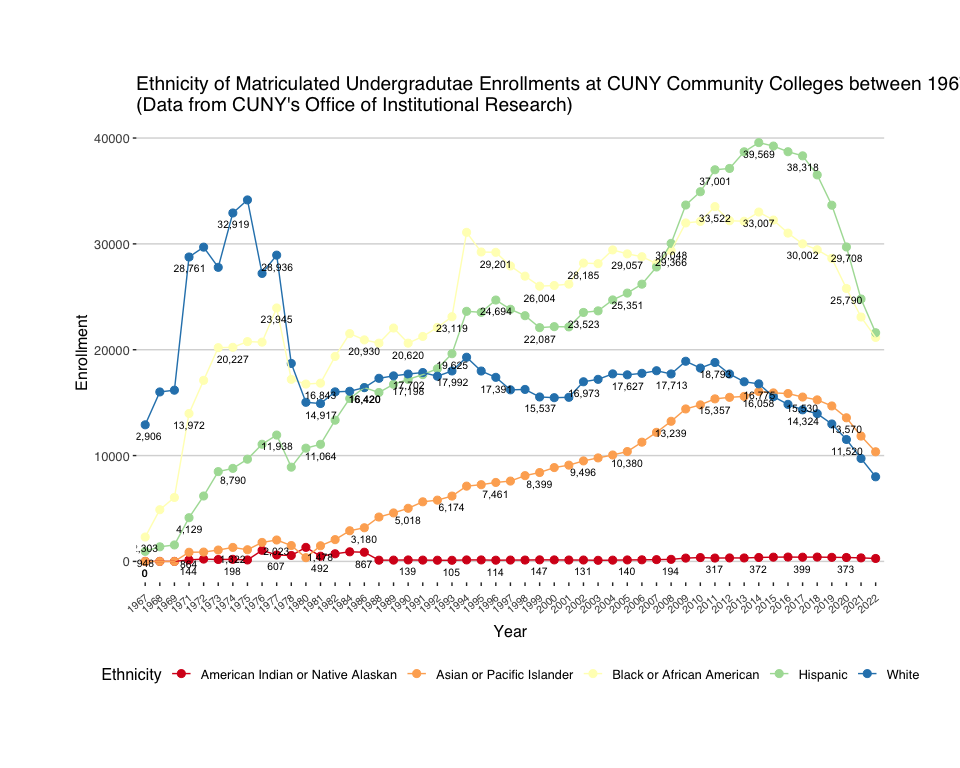
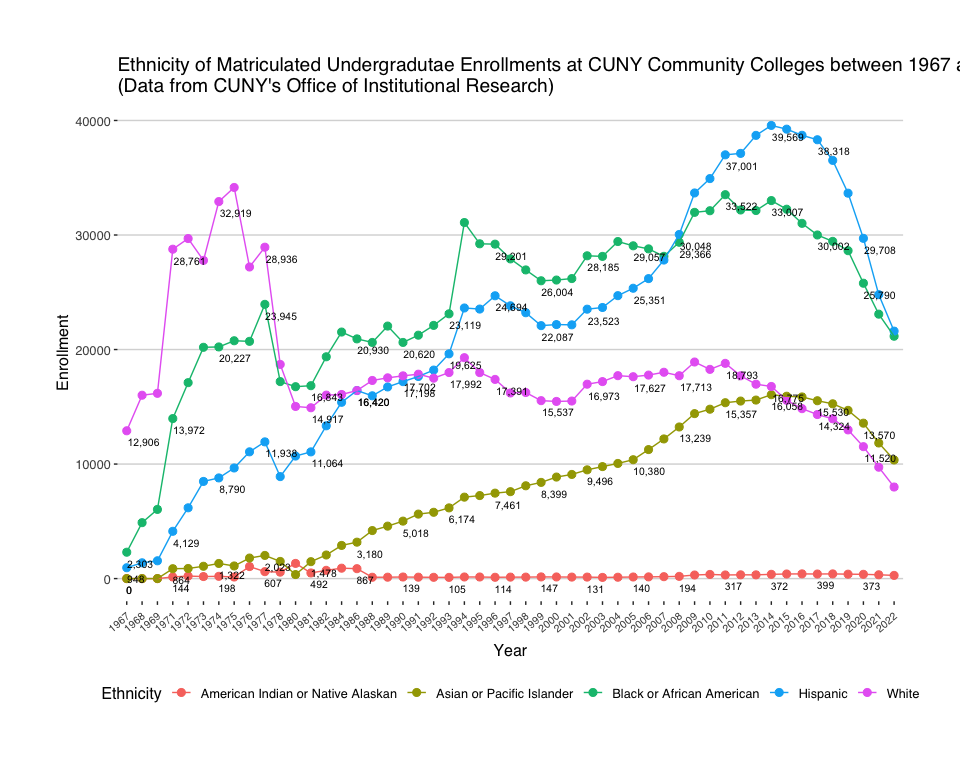
Updates.

Changed region(s): [[0.0938, 0.0625, 1.0, 0.9062], [0.0625, 0.4062, 0.125, 0.5312]]

diff --git a/Readme.md b/Readme.md
@@ -30,6 +30,11 @@ addComma<-function(x) {format(x, big.mark = ',', trim = TRUE, scientific = FALSE
 
 # creating a notin function
 `%notin%` <- Negate(`%in%`)
+
+# defining own color set
+library(RColorBrewer)
+# myColors <- c("green","lightblue","#FDAE61","#FEE090","#E0F3F8","#ABD9E9","#74ADD1","#4575B4","#313695","#FFFFBF","#FFFF99","#BEAED4","#FDC086","#1F78B4","#33A02C")
+myColors <- brewer.pal(6,"BuGn")
 ```
 
 ## Analyzing the CUNY’s diversity data
@@ -40,7 +45,7 @@ addComma<-function(x) {format(x, big.mark = ',', trim = TRUE, scientific = FALSE
   Book”
   - Appendix IV: Ethnic Survey for Fall 1967 Extrapolation Of Total
     Enrollment Based on Data Collected From 86.7% Sample
-  - only matriculated students
+  - Counts of matriculated students
   - The labeling of the following ethnicity levels have been modified.
     - “Negro” to “Black or African American” (see
       <https://www.pewresearch.org/social-trends/2010/01/21/race-and-the-census-the-negro-controversy/>
@@ -72,9 +77,9 @@ head(tempData.1967)
   Book”
   - Table III: The Distribution of Students Based Upon the Type of
     College in Which They Were Enrolled (p.42)
-  - Only proportions were reported. The actual number of students were
-    interpolated from the total number of matriculated students (see
-    Table I: Enrollment Fall 1964, 1968, 1969 on p.3)
+  - Only proportions were reported in the report. The actual number of
+    students were interpolated from the total number of matriculated
+    students (see Table I: Enrollment Fall 1964, 1968, 1969 on p.3)
   - The labeling of the following ethnicity levels have been modified.
     - “Black” to “Black or African American”
     - “Puerto Rican” to “Hispanic”
@@ -104,10 +109,10 @@ head(tempData.1969)
   - Data from the ethnic survey in 1972
   - Table V Ethnic Distribution of Undergraduate Students by Type of
     College Expressed in Percentages 1968 - 1972 (p.42)
-  - Only proportions were reported. The actual number of students were
-    interpolated from the total number of matriculated students (see
-    Table I The City University of New York Enrollment, Fall, 1968,
-    1971, 1972 on p.19)
+  - Only proportions were reported in the report. The actual number of
+    students were interpolated from the total number of matriculated
+    students (see Table I The City University of New York Enrollment,
+    Fall, 1968, 1971, 1972 on p.19)
   - The labeling of the following ethnicity levels have been modified.
     - “Puerto Rican” to “Hispanic”
     - “Black” to “Black or African American”
@@ -144,10 +149,11 @@ head(tempData.1972)
   - Table IV: Ethnic Composition Of Undergraduate Students By
     Matriculation Status, Sentor & Community Colleges, Expressed in
     Percentages, Fall 1969-1975 (p.127)
-  - Only proportions were reported. The actual number of students were
-    interpolated from the total number of matriculated students (see
-    Table IV: Trends In Undergraduate Matriculant & Non-Matriculant
-    Enrollment Expressed in Numbers & Percent–Fall 1970-1975 (p.115))
+  - Only proportions were reported in the report. The actual number of
+    students were interpolated from the total number of matriculated
+    students (see Table IV: Trends In Undergraduate Matriculant &
+    Non-Matriculant Enrollment Expressed in Numbers & Percent–Fall
+    1970-1975 (p.115))
   - The labeling of the following ethnicity levels have been modified.
     - “Puerto Rican” to “Hispanic”
     - “Black” to “Black or African American”
@@ -184,10 +190,10 @@ head(tempData.1975)
   - Table VI: Ethnic Composition of Undergraduate Students by
     Matriculation Status, Senior and Community Colleges Expressed in
     Percentages, Fall 1969, 1970, 1972, 1974, 1976, 1978, 1980 (p.111)
-  - Only proportions were reported. The actual number of students were
-    interpolated from the total number of matriculated students (see
-    Table III: Trends In Undergraduate Enrollment by Matriculant and
-    Non-Degree Status, Fall 1971, 1976 and 1977 (p.103))
+  - Only proportions were reported in the report. The actual number of
+    students were interpolated from the total number of matriculated
+    students (see Table III: Trends In Undergraduate Enrollment by
+    Matriculant and Non-Degree Status, Fall 1971, 1976 and 1977 (p.103))
   - The labeling of the following ethnicity levels have been modified.
     - “Black” to “Black or African American”
     - “American Indian” to “American Indian or Native Alaskan”
@@ -220,10 +226,11 @@ head(tempData.1977)
   - Table IV: Ethnic Composition of Undergraduate Students by
     Matriculation Status, Senior and Community Colleges Expressed in
     Percentages, Fall 1969, 1970, 1972, 1974, 1976”, 1978, 1980 (p. 108)
-  - Only proportions were reported. The actual number of students were
-    interpolated from the total number of matriculated students (see
-    Table III: Trends In Undergraduate Enrollment by Matriculants and
-    Non-Degree Status, Fall 1980, 1978, 1979, 1980 (p.100))
+  - Only proportions were reported in the report. The actual number of
+    students were interpolated from the total number of matriculated
+    students (see Table III: Trends In Undergraduate Enrollment by
+    Matriculants and Non-Degree Status, Fall 1980, 1978, 1979, 1980
+    (p.100))
   - The labeling of the following ethnicity levels have been modified.
     - “Black” to “Black or African American”
     - “American Indian” to “American Indian or Native Alaskan”
@@ -257,10 +264,10 @@ head(tempData.1980)
     Matriculation Status, Senior and Community Colleges: Expressed In
     Percentages, Fall 1969, 1970, 1972, 1974, 19768, 1978, 1980 and 1981
     (p.106)
-    - Only proportions were reported. The actual number of students were
-      interpolated from the total number of matriculated students (see
-      Table I: Trends in Enrollment Status By Sex Fall 1978, 1979, 1980,
-      1981 (p.96))
+    - Only proportions were reported in the report. The actual number of
+      students were interpolated from the total number of matriculated
+      students (see Table I: Trends in Enrollment Status By Sex Fall
+      1978, 1979, 1980, 1981 (p.96))
   - The enrollment data for 1978 and 1979 differ from those previously
     reported in the Data Book since these years have been adjusted to
     include New York City Technical College and the College of Staten
@@ -295,10 +302,10 @@ head(tempData.1981)
 - From “CUNY Student Data Book Fall 1992”
   - Table 34. Trends in Enrollment by Race/Ethnicity of CUNY
     Undergraduates: 1976 to 1992 (p.121)
-  - Only proportions were reported. The actual number of students were
-    interpolated from the total number of matriculated students (see
-    Table 10B. Trends in Undergraduate Enrolment by Colege: 1980 to 1992
-    (p.52))
+  - Only proportions were reported in the report. The actual number of
+    students were interpolated from the total number of matriculated
+    students (see Table 10B. Trends in Undergraduate Enrolment by
+    Colege: 1980 to 1992 (p.52))
 
 ``` r
 tempData.1992 = read.csv("data/CUNY_OIRA2023StudentDataBookEnrollmentByDegreeAndEthnicity1992.csv", sep = ",")
@@ -323,6 +330,7 @@ head(tempData.1992)
 - Data from CUNY’s Office of Institutional Research
   - <https://www.cuny.edu/about/administration/offices/oira/institutional/data/student-data-book-archive/>
   - <https://public.tableau.com/app/profile/oira.cuny/viz/StudentDataBook/Enrollment>
+  - Tableau
     - Select year in “Select Year”
     - “Enrollment Drilldown”
     - For “Bottom Column Header”, choose “Degree Pursued Level”
@@ -351,6 +359,7 @@ head(tempData.2022)
 - “Other” and “No Response” were removed
 
 ``` r
+# creating data tables
 tempData = bind_rows(tempData.1967, tempData.1969, tempData.1972, tempData.1975, tempData.1977, tempData.1980, tempData.1981, tempData.1992, tempData.2022)
 
 xtabs(Enrollment ~ Ethnicity + Year + Control, data=tempData)[,,"Community"]
@@ -518,6 +527,8 @@ xtabs(Enrollment ~ Year + Control, data=tempData)
 tempData = tempData[tempData$Ethnicity %notin% c("Other","No Response"),]
 ```
 
+- Plotting diversity data at CUNY community colleges
+
 ``` r
 CUNY.diversity = xtabs(Enrollment ~ Ethnicity + Year + Control, data=tempData)
 CUNY.diveristy.2y = as.data.frame(CUNY.diversity[,,"Community"])
@@ -527,19 +538,19 @@ colnames(CUNY.diveristy.2y) <- c("Ethnicity","Year","Enrollment")
 p <- ggplot(CUNY.diveristy.2y, aes(Year, Enrollment, group = Ethnicity)) + 
     geom_point(aes(color=Ethnicity), size=2.5) + 
   scale_shape_manual(values = c(0,1)) +
-  scale_color_brewer(palette = "Spectral") +
+#  scale_color_brewer(palette = "Spectral") +
   geom_line(aes(color=Ethnicity)) + 
-    geom_text(aes(label=paste(addComma(Enrollment),sep="")), position=position_dodge2(width=0.1, preserve="single", padding=5), vjust=2, size=2.75, data=CUNY.diveristy.2y[as.integer(CUNY.diveristy.2y$Year) %% 3 == 1,])
+    geom_text(aes(label=paste(addComma(Enrollment),sep="")), position=position_dodge2(width=0.1, preserve="single", padding=5), vjust=2, hjust=-0.01, size=2.75, data=CUNY.diveristy.2y[as.integer(CUNY.diveristy.2y$Year) %% 3 == 1,])
 
 # using ggplot theme and modifying axis labels
 p + theme_hc() + scale_fill_identity() + # scale_colour_hc() +
   theme(axis.text.x = element_text(angle = 40, vjust = 0.8, hjust=1, size=8)) +
   ggtitle(paste("Ethnicity of Matriculated Undergradutae Enrollments at CUNY Community Colleges between 1967 and 2022\n(Data from CUNY's Office of Institutional Research)")) +
-  theme(plot.margin = unit(c(2,2,2,2), "cm")) +
+  theme(plot.margin = unit(c(1.5,1.5,1.5,1.5), "cm")) +
   theme(axis.title.x = element_text(margin=margin(t=10)))
 ```
 
-<img src="files/figure-gfm/unnamed-chunk-13-1.png" style="display: block; margin: auto;" />
+<img src="RProcedureMLA2024CUNYMLEnrollmentAndDiversity_files/figure-gfm/unnamed-chunk-13-1.png" style="display: block; margin: auto;" />
 
 ``` r
 #  theme(legend.key.size = unit(1, 'cm'), #change legend key size
@@ -547,44 +558,7 @@ p + theme_hc() + scale_fill_identity() + # scale_colour_hc() +
 #  legend.key.width = unit(1, 'cm'), #change legend key width
 #  legend.title = element_text(size=12), #change legend title font size
 #  legend.text = element_text(size=8)) #change legend text font size
-ggsave("data/CUNYMLEnrollmentAndDiversityPlotEthnicity2Y1967_2022.pdf", width = 12, height = 9)
-```
-
-### Plotting the data for senior colleges
-
-- “Other” and “No Response” were removed
-
-``` r
-tempData = tempData[tempData$Ethnicity %notin% c("Other","No Response"),]
-CUNY.diversity = xtabs(Enrollment ~ Ethnicity + Year + Control, data=tempData)
-# plotting data
-
-CUNY.diveristy.4y = as.data.frame(CUNY.diversity[,,"Senior"])
-colnames(CUNY.diveristy.4y) <- c("Ethnicity","Year","Enrollment")
-p <- ggplot(CUNY.diveristy.4y, aes(Year, Enrollment, group = Ethnicity)) + 
-    geom_point(aes(color=Ethnicity), size=2.5) + 
-  scale_shape_manual(values = c(0,1)) +
-  scale_color_brewer(palette = "Spectral") +
-  geom_line(aes(color=Ethnicity)) + 
-    geom_text(aes(label=paste(addComma(Enrollment),sep="")), position=position_dodge2(width=0.1, preserve="single", padding=5), vjust=2, size=2.75, data=CUNY.diveristy.4y[as.integer(CUNY.diveristy.4y$Year) %% 3 == 1,])
-
-# using ggplot theme and modifying axis labels
-p + theme_hc() + scale_fill_identity() + # scale_colour_hc() +
-  theme(axis.text.x = element_text(angle = 40, vjust = 0.8, hjust=1, size=8)) +
-  ggtitle(paste("Ethnicity of Matriculated Undergradutae Enrollments at CUNY Senior Colleges between 1967 and 2022\n(Data from CUNY's Office of Institutional Research)")) +
-  theme(plot.margin = unit(c(2,2,2,2), "cm")) +
-  theme(axis.title.x = element_text(margin=margin(t=10)))
-```
-
-<img src="files/figure-gfm/unnamed-chunk-14-1.png" style="display: block; margin: auto;" />
-
-``` r
-#  theme(legend.key.size = unit(1, 'cm'), #change legend key size
-#  legend.key.height = unit(1, 'cm'), #change legend key height
-#  legend.key.width = unit(1, 'cm'), #change legend key width
-#  legend.title = element_text(size=12), #change legend title font size
-#  legend.text = element_text(size=8)) #change legend text font size
-ggsave("data/CUNYMLEnrollmentAndDiversityPlotEthnicity4Y1967_2022.pdf", width = 12, height = 9)
+ggsave("data/CUNYMLEnrollmentAndDiversityPlotEthnicity2Y1967_2022.pdf", width = 12, height = 8)
 ```
 
 - Simplified plot for community colleges
@@ -599,7 +573,7 @@ colnames(CUNY.diveristy.simplified.2y) <- c("Ethnicity","Year","Enrollment")
 p <- ggplot(CUNY.diveristy.simplified.2y, aes(Year, Enrollment, group = Ethnicity)) + 
     geom_point(aes(color=Ethnicity), size=2.5) + 
   scale_shape_manual(values = c(0,1)) +
-  scale_color_brewer(palette = "Spectral") +
+#  scale_color_brewer(palette = "Spectral") +
   geom_line(aes(color=Ethnicity)) + 
     geom_text(aes(label=paste(addComma(Enrollment),sep="")), position=position_dodge2(width=0.1, preserve="single", padding=5), vjust=2, size=2.75, data=CUNY.diveristy.simplified.2y[as.integer(CUNY.diveristy.simplified.2y$Year) %% 3 == 1,])
 
@@ -607,11 +581,11 @@ p <- ggplot(CUNY.diveristy.simplified.2y, aes(Year, Enrollment, group = Ethnicit
 p + theme_hc() + scale_fill_identity() + # scale_colour_hc() +
   theme(axis.text.x = element_text(angle = 40, vjust = 0.8, hjust=1, size=8)) +
   ggtitle(paste("Ethnicity of Matriculated Undergradutae Enrollments at CUNY Community Colleges between 1967 and 2022\n(Data from CUNY's Office of Institutional Research)")) +
-  theme(plot.margin = unit(c(2,2,2,2), "cm")) +
+  theme(plot.margin = unit(c(1.5,1.5,1.5,1.5), "cm")) +
   theme(axis.title.x = element_text(margin=margin(t=10)))
 ```
 
-<img src="files/figure-gfm/unnamed-chunk-15-1.png" style="display: block; margin: auto;" />
+<img src="RProcedureMLA2024CUNYMLEnrollmentAndDiversity_files/figure-gfm/unnamed-chunk-14-1.png" style="display: block; margin: auto;" />
 
 ``` r
 #  theme(legend.key.size = unit(1, 'cm'), #change legend key size
@@ -619,7 +593,41 @@ p + theme_hc() + scale_fill_identity() + # scale_colour_hc() +
 #  legend.key.width = unit(1, 'cm'), #change legend key width
 #  legend.title = element_text(size=12), #change legend title font size
 #  legend.text = element_text(size=8)) #change legend text font size
-ggsave("data/CUNYMLEnrollmentAndDiversityPlotEthnicity2Y1967_2022Simplified.pdf", width = 12, height = 9)
+ggsave("data/CUNYMLEnrollmentAndDiversityPlotEthnicity2Y1967_2022Simplified.pdf", width = 12, height = 8)
+```
+
+### Plotting the data for senior colleges
+
+- Plotting diversity data at CUNY community colleges
+
+``` r
+# plotting data
+CUNY.diveristy.4y = as.data.frame(CUNY.diversity[,,"Senior"])
+colnames(CUNY.diveristy.4y) <- c("Ethnicity","Year","Enrollment")
+p <- ggplot(CUNY.diveristy.4y, aes(Year, Enrollment, group = Ethnicity)) + 
+    geom_point(aes(color=Ethnicity), size=2.5) + 
+  scale_shape_manual(values = c(0,1)) +
+#  scale_color_brewer(palette = "Spectral") +
+  geom_line(aes(color=Ethnicity)) + 
+    geom_text(aes(label=paste(addComma(Enrollment),sep="")), position=position_dodge2(width=0.1, preserve="single", padding=5), vjust=2, hjust=-0.01, size=2.75, data=CUNY.diveristy.4y[as.integer(CUNY.diveristy.4y$Year) %% 3 == 1,])
+
+# using ggplot theme and modifying axis labels
+p + theme_hc() + scale_fill_identity() + # scale_colour_hc() +
+  theme(axis.text.x = element_text(angle = 40, vjust = 0.8, hjust=1, size=8)) +
+  ggtitle(paste("Ethnicity of Matriculated Undergradutae Enrollments at CUNY Senior Colleges between 1967 and 2022\n(Data from CUNY's Office of Institutional Research)")) +
+  theme(plot.margin = unit(c(1.5,1.5,1.5,1.5), "cm")) +
+  theme(axis.title.x = element_text(margin=margin(t=10)))
+```
+
+<img src="RProcedureMLA2024CUNYMLEnrollmentAndDiversity_files/figure-gfm/unnamed-chunk-15-1.png" style="display: block; margin: auto;" />
+
+``` r
+#  theme(legend.key.size = unit(1, 'cm'), #change legend key size
+#  legend.key.height = unit(1, 'cm'), #change legend key height
+#  legend.key.width = unit(1, 'cm'), #change legend key width
+#  legend.title = element_text(size=12), #change legend title font size
+#  legend.text = element_text(size=8)) #change legend text font size
+ggsave("data/CUNYMLEnrollmentAndDiversityPlotEthnicity4Y1967_2022.pdf", width = 12, height = 8)
 ```
 
 ## Analyzing the MLA’s Enrollment Survey
@@ -675,13 +683,56 @@ MLA.CUNY.e <- tapply(MLA.CUNY$UG.TOTAL, list(MLA.CUNY$UNIV, MLA.CUNY$YR.TERM, ML
 MLA.CUNY.e3 <- tapply(MLA.CUNY$UG.TOTAL, list(MLA.CUNY$UNIV, MLA.CUNY$YR.TERM),sum, na.rm=TRUE)
 ```
 
+- Plotting the modern language enrollment data at CUNY
+
+``` r
+# selecting community colleges and senior colleges
+CUNYCCIndex = c("BMCC", "Hostos C", "BCC", "Kingsborough C", "LaGuardia C", "Queensborough C")
+CUNYSCIndex = c("Baruch","Brooklyn","CSI", "City", "Hunter", "John Jay", "Lehman", "Medger Evers", "CityTech", "Queens", "York")
+```
+
 - Plotting the modern language enrollment data
 
 ``` r
-# plotting data
-CUNYCCIndex = c("BMCC", "Hostos C", "BCC", "Kingsborough C", "LaGuardia C", "Queensborough C")
-CUNYSCIndex = c("Baruch","Brooklyn","CSI", "City", "Hunter", "John Jay", "Lehman", "Medger Evers", "CityTech", "Queens", "York")
+tempData = melt(MLA.CUNY.e3)
+colnames(tempData) <- c("Institution","Year","Enrollment")
+tempData[tempData$Institution %in% CUNYCCIndex,"Control"] = "Community College"
+tempData[tempData$Institution %in% CUNYSCIndex,"Control"] = "Senior College"
 
+tempData[is.na(tempData$Enrollment),"Enrollment"] <- 0
+
+tempData <- melt(tapply(tempData$Enrollment, list(tempData$Year,tempData$Control),sum, na.rm=TRUE))
+colnames(tempData) <- c("Year","Control","Enrollment")
+
+p <- ggplot(tempData, aes(Year, Enrollment, group = Control)) + 
+  geom_point(aes(color=Control), size=2.5) + 
+#  scale_shape_manual(values = c(0,1)) +
+#  scale_color_brewer(palette = "PuOr") +
+  geom_line(aes(color=Control)) + 
+    geom_text(aes(label=paste(addComma(Enrollment),sep="")), 
+        position=position_dodge2(width=0.1, preserve="single", padding=5), vjust=2, size=2.75)
+
+  # using ggplot theme and modifying axis labels
+p + theme_hc() + scale_fill_identity() + # + scale_colour_hc() +
+  theme(axis.text.x = element_text(angle = 40, vjust = 0.8, hjust=1, size=8)) +
+    ggtitle(paste("Modern Language Enrollments at CUNY by Control between 1958 and 2021\n(Data from MLA's Language Enrollment Database, 1958–2021)")) +
+    theme(plot.margin = unit(c(1.5,1.5,1.5,1.5), "cm")) +
+    theme(axis.title.x = element_text(margin=margin(t=10)))
+```
+
+<img src="RProcedureMLA2024CUNYMLEnrollmentAndDiversity_files/figure-gfm/unnamed-chunk-18-1.png" style="display: block; margin: auto;" />
+
+``` r
+#  theme(legend.key.size = unit(1, 'cm'), #change legend key size
+#    legend.key.height = unit(1, 'cm'), #change legend key height
+#    legend.key.width = unit(1, 'cm'), #change legend key width
+#    legend.title = element_text(size=12), #change legend title font size
+#    legend.text = element_text(size=8)) #change legend text font size
+ggsave(paste("data/CUNYMLEnrollmentMLAEnrollmentSurvey2023CCAndSC.pdf",sep=""), width = 11, height = 7)
+```
+
+``` r
+# plotting data
 tempData = melt(MLA.CUNY.e3[CUNYCCIndex,])
 colnames(tempData) <- c("Institution","Year","Enrollment")
 tempData[is.na(tempData$Enrollment),"Enrollment"] <- 0
@@ -701,7 +752,7 @@ p + theme_hc() + scale_fill_identity() + # + scale_colour_hc() +
     theme(axis.title.x = element_text(margin=margin(t=10)))
 ```
 
-<img src="files/figure-gfm/unnamed-chunk-17-1.png" style="display: block; margin: auto;" />
+<img src="RProcedureMLA2024CUNYMLEnrollmentAndDiversity_files/figure-gfm/unnamed-chunk-19-1.png" style="display: block; margin: auto;" />
 
 ``` r
 #  theme(legend.key.size = unit(1, 'cm'), #change legend key size
